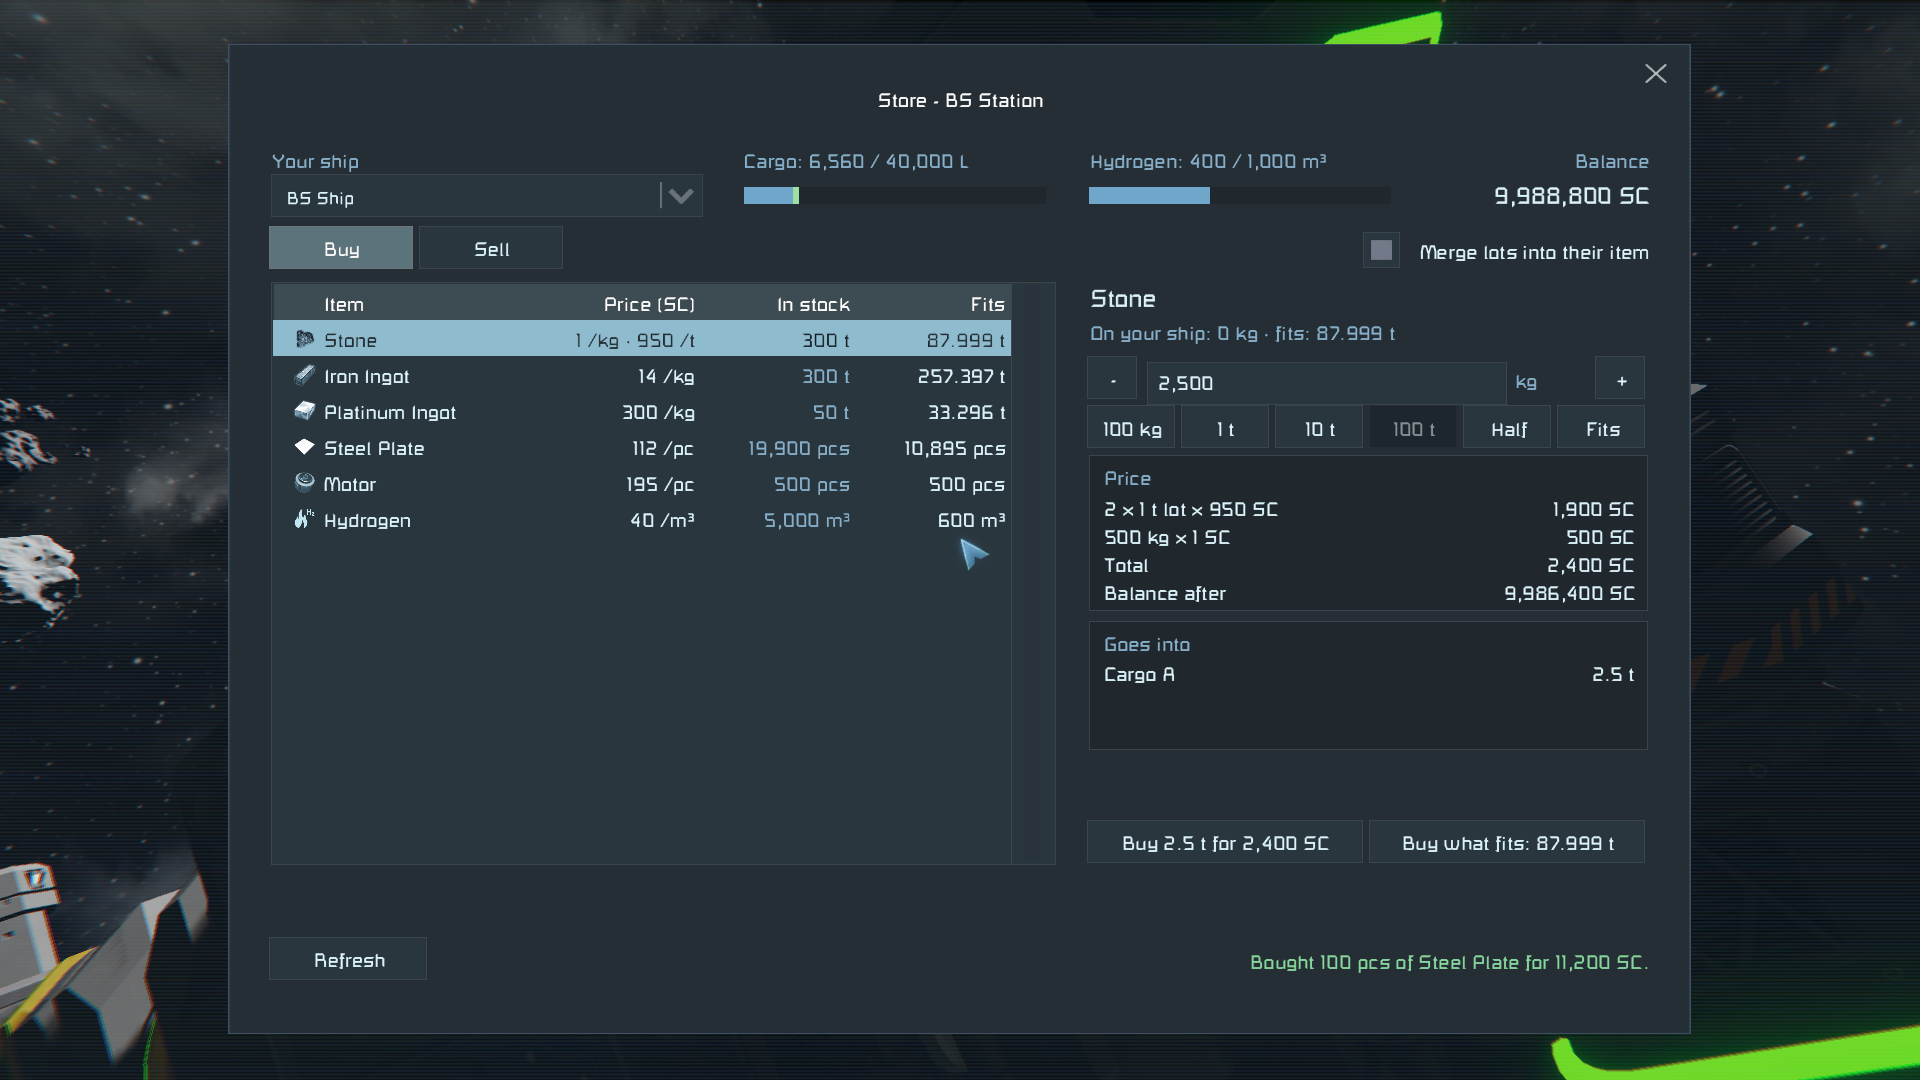
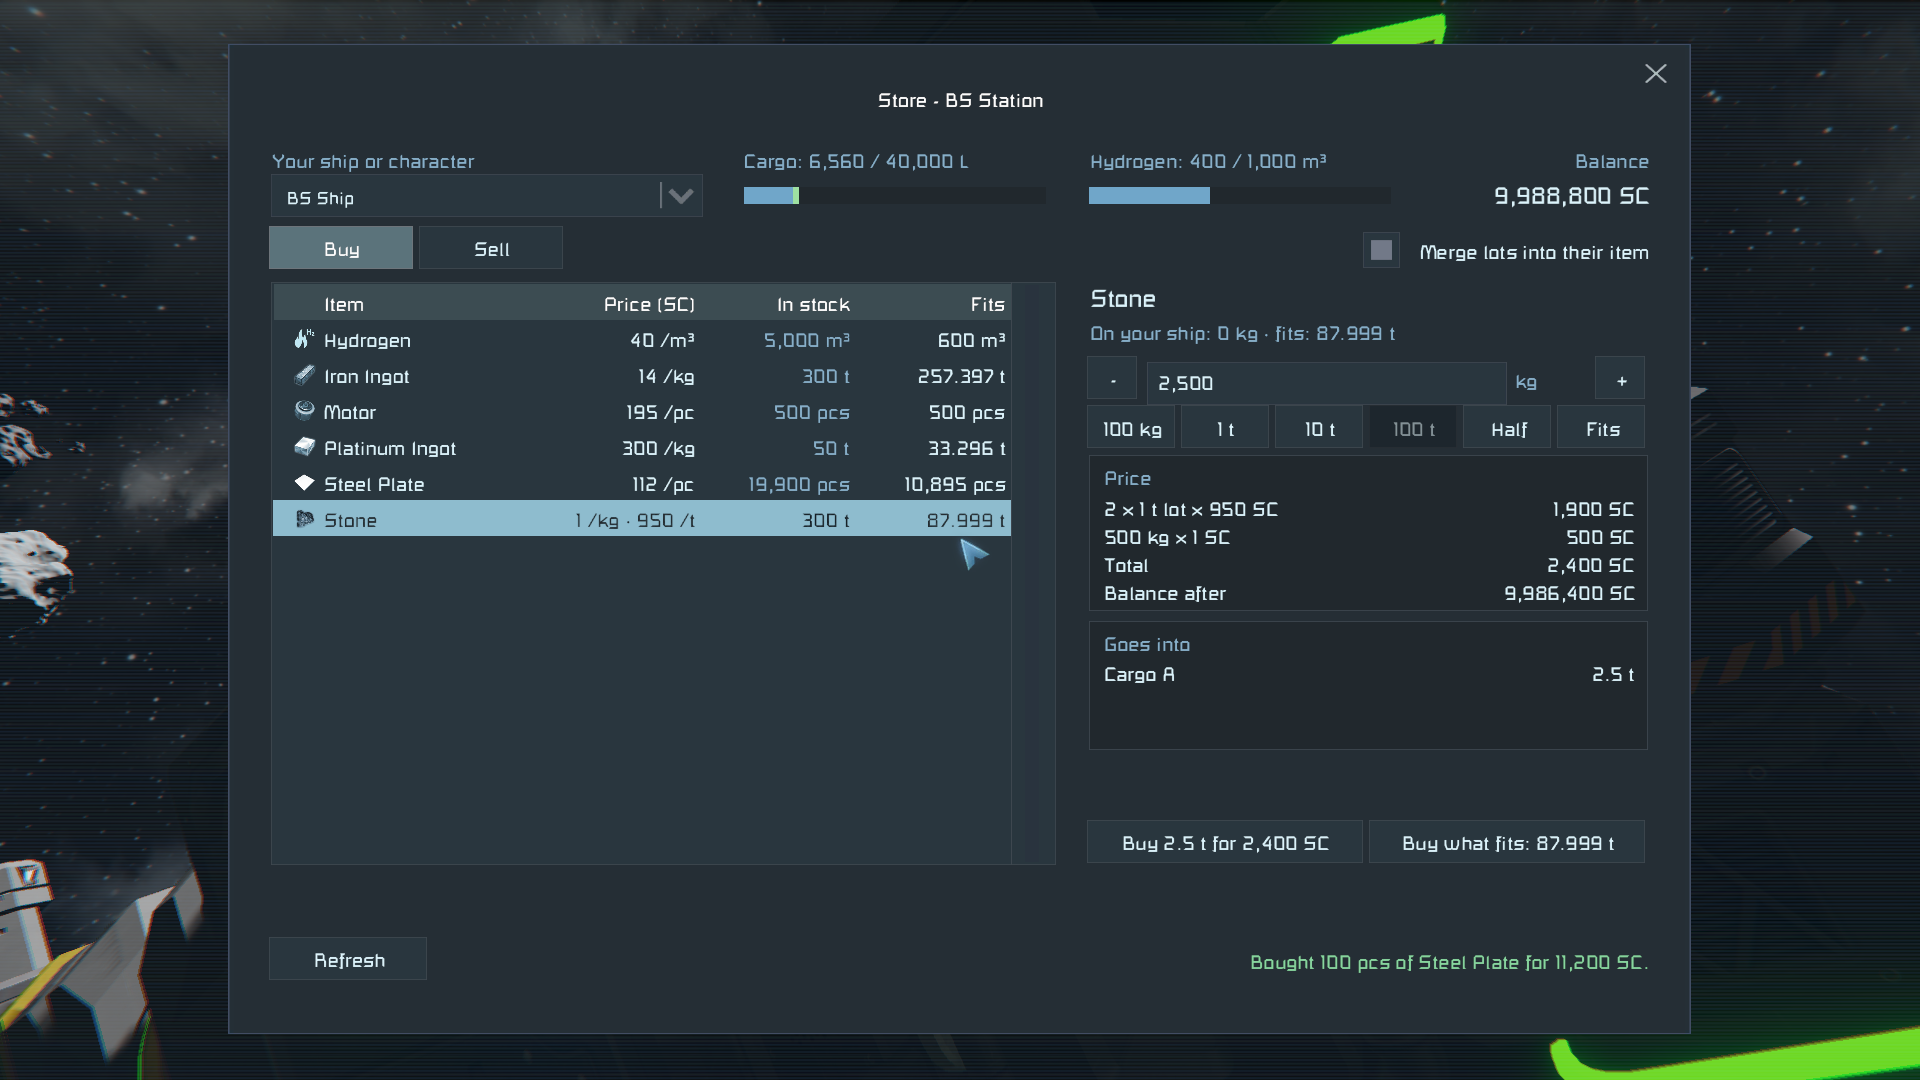
Ship list: character always, only docked ships the player has access to; default sorting (SE-1486)
The combo box is labeled "Your ship or character". The character is listed as soon as the
screen opens. A ship is listed only while docked at a connector with trading on, with the
blocks the player has access to; the server's list is checked again on the client.

The Buy tab opens sorted by item name, the Sell tab by "You have" descending, then by name.

diff --git a/Docs/mockup/store-screen.html b/Docs/mockup/store-screen.html
@@ -115,7 +115,7 @@ button:focus-visible,select:focus-visible,input:focus-visible{outline:2px solid 
   <div class="scroll"><div class="viewport"><div class="se" id="screen">
     <div class="cap">Store - OCT Alpha Station<span class="x">✕</span></div>
     <div class="shipbar">
-      <label class="fld"><span>Your ship</span><select id="ship"></select></label>
+      <label class="fld"><span>Your ship or character</span><select id="ship"></select></label>
       <div class="fld"><span id="cargoTxt"></span><div class="pbar"><i id="cargoBar"></i><b id="cargoAdd"></b></div></div>
       <div class="fld"><span id="tankTxt"></span><div class="pbar"><i id="tankBar"></i><b id="tankAdd"></b></div></div>
       <div class="balance"><span class="dimc">Balance</span><b id="bal"></b></div>

diff --git a/Tests/rig/test_store.py b/Tests/rig/test_store.py
@@ -172,6 +172,10 @@ def open_store(key: bool = False) -> None:
     wait(lambda: len(table()) > 0, "the Store's rows")
 
 
+def ships() -> list:
+    return control("BetterStoreShip")["items"]
+
+
 def close_store() -> None:
     api.key("Escape")
     wait(lambda: screen_index() is None, "the screen to close")
@@ -272,9 +276,10 @@ def check_lists() -> None:
     rig.probe("fill Cargo_A Ingot/Iron 40000")
     rig.probe("fill Cargo_B Ingot/Iron 30000")
     open_store()
+    wait(lambda: len(ships()) == 2, "the docked ship in the list")
     equal(
         "2. Ship combo lists the docked ship and Character",
-        control("BetterStoreShip")["items"],
+        ships(),
         ["BS Ship", "Character"],
     )
     equal(
@@ -283,11 +288,6 @@ def check_lists() -> None:
         False,
     )
     rows = {r[1]: r for r in table()}
-    equal(
-        "2. Buy tab lists the offers",
-        names(),
-        ["Stone", "Iron Ingot", "Platinum Ingot", "Steel Plate", "Motor", "Hydrogen"],
-    )
     equal(
         "2. Stone (merged) Price / In stock",
         rows["Stone"][2:4],
@@ -307,6 +307,11 @@ def check_lists() -> None:
         ["40 /m³", "5,000 m³", "1,000 m³"],
     )
     equal("2. Platinum Fits is limited by money", rows["Platinum Ingot"][4], "33.333 t")
+    equal(
+        "2. Buy tab lists the offers, sorted by name",
+        names(),
+        ["Hydrogen", "Iron Ingot", "Motor", "Platinum Ingot", "Steel Plate", "Stone"],
+    )
     api.control_click(name="BetterStoreTable", header=2, screen=screen_index())
     equal(
         "2. A click on Price sorts by it",
@@ -323,9 +328,9 @@ def check_lists() -> None:
     side("Sell")
     rows = {r[1]: r for r in table()}
     equal(
-        "2. Sell tab lists the orders, no gas",
+        "2. Sell tab: no gas, the most held first, then by name",
         names(),
-        ["Iron Ingot", "Nickel Ingot", "Steel Plate", "Gold Ingot"],
+        ["Iron Ingot", "Gold Ingot", "Nickel Ingot", "Steel Plate"],
     )
     equal(
         "2. Sell tab headers",
@@ -381,6 +386,33 @@ def check_character() -> None:
         "Bought 3 pcs of Motor for 585 SC.",
     )
     close_store()
+
+
+def check_ship_access() -> None:
+    """Only a docked ship the player has access to is listed; the character always is"""
+
+    def listed(label: str, expected: list) -> None:
+        open_store()
+        if len(expected) > 1:
+            wait(lambda: len(ships()) == len(expected), "the ship in the list")
+        else:
+            time.sleep(1.0)  # the server's answer, which must not add the ship
+        equal(label, ships(), expected)
+        close_store()
+
+    def docked() -> None:
+        check("2. The ship is docked", "connected=True" in rig.probe("ship")[0])
+
+    prepare()
+    rig.probe("shipowner npc")
+    docked()
+    listed("2. A docked ship of another faction is not listed", ["Character"])
+    rig.probe("shipowner me")
+    docked()
+    rig.probe("trading off")
+    listed("2. A ship at a connector with trading off is not listed", ["Character"])
+    rig.probe("trading on")
+    listed("2. The player's docked ship is listed again", ["BS Ship", "Character"])
 
 
 def check_buy_two_containers() -> None:
@@ -759,7 +791,7 @@ def main() -> int:
     try:
         setup_store()
         tests = (
-            check_open, check_lists, check_character, check_buy_two_containers, check_buy_max, check_sell,
+            check_open, check_lists, check_character, check_ship_access, check_buy_two_containers, check_buy_max, check_sell,
             check_amounts, check_gas, check_lots, check_refused, check_close,
             # Last: after the server's message the plugin stops guessing lots for the session
             check_server_lots, screenshots,

diff --git a/ClientPlugin/Gui/StoreScreen.cs b/ClientPlugin/Gui/StoreScreen.cs
@@ -46,6 +46,7 @@ internal sealed class StoreScreen : MyGuiScreenBase
     private readonly StoreModel model;
 
     private Side side = Side.Buy;
+    private bool defaultSort = true;
     private int shipIndex;
     private List<Entry> entries = new List<Entry>();
     private Entry selected;
@@ -156,7 +157,7 @@ internal sealed class StoreScreen : MyGuiScreenBase
         );
 
         // Top row: the ship, its cargo and hydrogen, the balance
-        Label(Left, -0.352f, "Your ship", Dim);
+        Label(Left, -0.352f, "Your ship or character", Dim);
         shipBox = new MyGuiControlCombobox(
             new Vector2(Left, -0.318f),
             new Vector2(0.3f, 0.04f),
@@ -245,7 +246,18 @@ internal sealed class StoreScreen : MyGuiScreenBase
             table.SetHeaderColumnMargin(column, new Thickness(-CellMargin / 2, 0f, CellMargin, 0f));
             table.SetColumnComparison(
                 column,
-                (a, b) => ((double)a.UserData).CompareTo((double)b.UserData)
+                (a, b) =>
+                {
+                    int order = ((double)a.UserData).CompareTo((double)b.UserData);
+                    // Equal amounts go by name, A to Z when the larger amounts come first
+                    return order != 0
+                        ? order
+                        : string.Compare(
+                            b.Row.GetCell(1).Text.ToString(),
+                            a.Row.GetCell(1).Text.ToString(),
+                            StringComparison.CurrentCultureIgnoreCase
+                        );
+                }
             );
         }
         table.SetColumnComparison(
@@ -498,6 +510,7 @@ internal sealed class StoreScreen : MyGuiScreenBase
         if (side == newSide)
             return;
         side = newSide;
+        defaultSort = true;
         selected = null;
         amount = 0;
         Rebuild();
@@ -579,7 +592,19 @@ internal sealed class StoreScreen : MyGuiScreenBase
             );
             table.Add(row);
         }
-        table.Sort(switchSort: false);
+        if (defaultSort)
+        {
+            // Buy: by name. Sell: what the player has the most of first. The table only toggles a
+            // column: sorting by another one first leaves this one unsorted, then its first sort
+            // is ascending and its second descending.
+            table.SortByColumn(buying ? 2 : 1);
+            table.SortByColumn(buying ? 1 : 4);
+            if (!buying)
+                table.SortByColumn(4);
+            defaultSort = false;
+        }
+        else
+            table.Sort(switchSort: false);
         int index = selected == null ? -1 : table.FindIndex(r => r.UserData == selected);
         table.SelectedRowIndex = index < 0 ? (int?)null : index;
         filling = false;

diff --git a/ClientPlugin/Game/StoreModel.cs b/ClientPlugin/Game/StoreModel.cs
@@ -9,6 +9,7 @@ using Sandbox.Game.Entities;
 using Sandbox.Game.Entities.Blocks;
 using Sandbox.Game.Entities.Character;
 using Sandbox.Game.Entities.Character.Components;
+using Sandbox.Game.Entities.Cube;
 using Sandbox.Game.GameSystems.BankingAndCurrency;
 using Sandbox.Game.World;
 using VRage;
@@ -103,6 +104,8 @@ internal sealed class StoreModel
     {
         LotInfo.Listen();
         LotInfo.Changed += OnLots;
+        // The character is there to trade with before, and without, the server's answer
+        OnInventories(new List<long>());
         Store.CreateGetConnectedGridInventoriesRequest(OnInventories);
         Refresh();
     }
@@ -195,9 +198,14 @@ internal sealed class StoreModel
         if (closed)
             return;
         Ships.Clear();
+        // The server lists the blocks of docked grids the player has access to. Both are checked
+        // here again, so the list never shows a ship the player can't trade with.
+        var docked = Docked();
         var blocks = entityIds
-            .Select(id => MyEntities.TryGetEntityById(id, out MyCubeBlock block) ? block : null)
-            .Where(block => block != null);
+            .Select(id => MyEntities.TryGetEntityById(id, out MyTerminalBlock block) ? block : null)
+            .Where(block =>
+                block != null && block.HasLocalPlayerAccess() && docked.Contains(block.CubeGrid)
+            );
         // A ship is all the grids mechanically joined to the docked one
         foreach (
             var group in blocks.GroupBy(b =>
@@ -230,6 +238,23 @@ internal sealed class StoreModel
             Ships.Add(suit);
         }
         Changed?.Invoke();
+    }
+
+    /// <summary>The grids docked to the Store's grid at a connector with trading on.</summary>
+    private HashSet<MyCubeGrid> Docked()
+    {
+        var grids = new HashSet<MyCubeGrid>();
+        foreach (var connector in Store.CubeGrid.GetFatBlocks<MyShipConnector>())
+        {
+            if (!connector.Connected || !connector.TradingEnabled.Value || connector.Other == null)
+                continue;
+            var ship = connector.Other.CubeGrid;
+            grids.Add(ship);
+            var group = MyCubeGridGroups.Static.Mechanical.GetGroupNodes(ship);
+            if (group != null)
+                grids.UnionWith(group);
+        }
+        return grids;
     }
 
     // --- inventories ---

diff --git a/Tests/StoreProbe/Plugin.cs b/Tests/StoreProbe/Plugin.cs
@@ -286,6 +286,34 @@ public class Plugin : IPlugin
                 output.Add("OK");
                 break;
             }
+            case "shipowner":
+            {
+                // me: the player owns the ship; npc: the Store's faction owns all of it but the
+                // connector, which undocks when its owner changes
+                long owner =
+                    args[1] == "me"
+                        ? MySession.Static.LocalPlayerId
+                        : MySession.Static.Factions.TryGetFactionByTag(FactionTag).FounderId;
+                foreach (var block in ShipBlocks.Where(b => !(b is MyShipConnector)))
+                    block.ChangeOwner(owner, MyOwnershipShareModeEnum.None);
+                output.Add("OK");
+                break;
+            }
+            case "ship":
+            {
+                var connector = ShipBlocks.OfType<MyShipConnector>().First();
+                output.Add(
+                    $"SHIP connected={connector.Connected} me={MySession.Static.LocalPlayerId} owners={string.Join(",", Grid(ShipName).BigOwners)} blockOwner={connector.OwnerId}"
+                );
+                break;
+            }
+            case "trading":
+            {
+                foreach (var connector in Grid(StationName).GetFatBlocks<MyShipConnector>())
+                    connector.TradingEnabled.Value = args[1] == "on";
+                output.Add("OK");
+                break;
+            }
             case "faction":
             {
                 var faction = MySession.Static.Factions.TryGetFactionByTag(FactionTag);

diff --git a/Docs/Design.md b/Docs/Design.md
@@ -39,8 +39,10 @@ action on an item is in the panel on the right.
 
 ### Top row
 
-- **Your ship**: a combo box of the docked grids that the Store may trade with, one entry per
-  grid, and "Character" for the suit. The first ship is selected when the screen opens.
+- **Your ship or character**: a combo box of the ships to trade with, and "Character" for the
+  suit, which is always listed. A ship is listed only while it is docked to the Store's grid at a
+  connector with trading on, and only with the blocks the player has access to: their own, their
+  faction's, or shared with all. The first ship is selected when the screen opens.
 - **Cargo** and **Hydrogen**: progress bars over all inventories, or all hydrogen tanks, of the
   selected ship, with the volume as text. While an amount is entered, a second bar shows how
   much the trade would add.
@@ -48,7 +50,9 @@ action on an item is in the panel on the right.
 
 ### Buy and Sell tabs
 
-One table per tab, 15 rows before it scrolls. Click a column header to sort.
+One table per tab, 15 rows before it scrolls. The Buy tab opens sorted by item name. The Sell tab
+opens with the items the player has the most of first, and by name among equals. Click a column
+header to sort by it.
 
 | Buy | Sell |
 |---|---|
